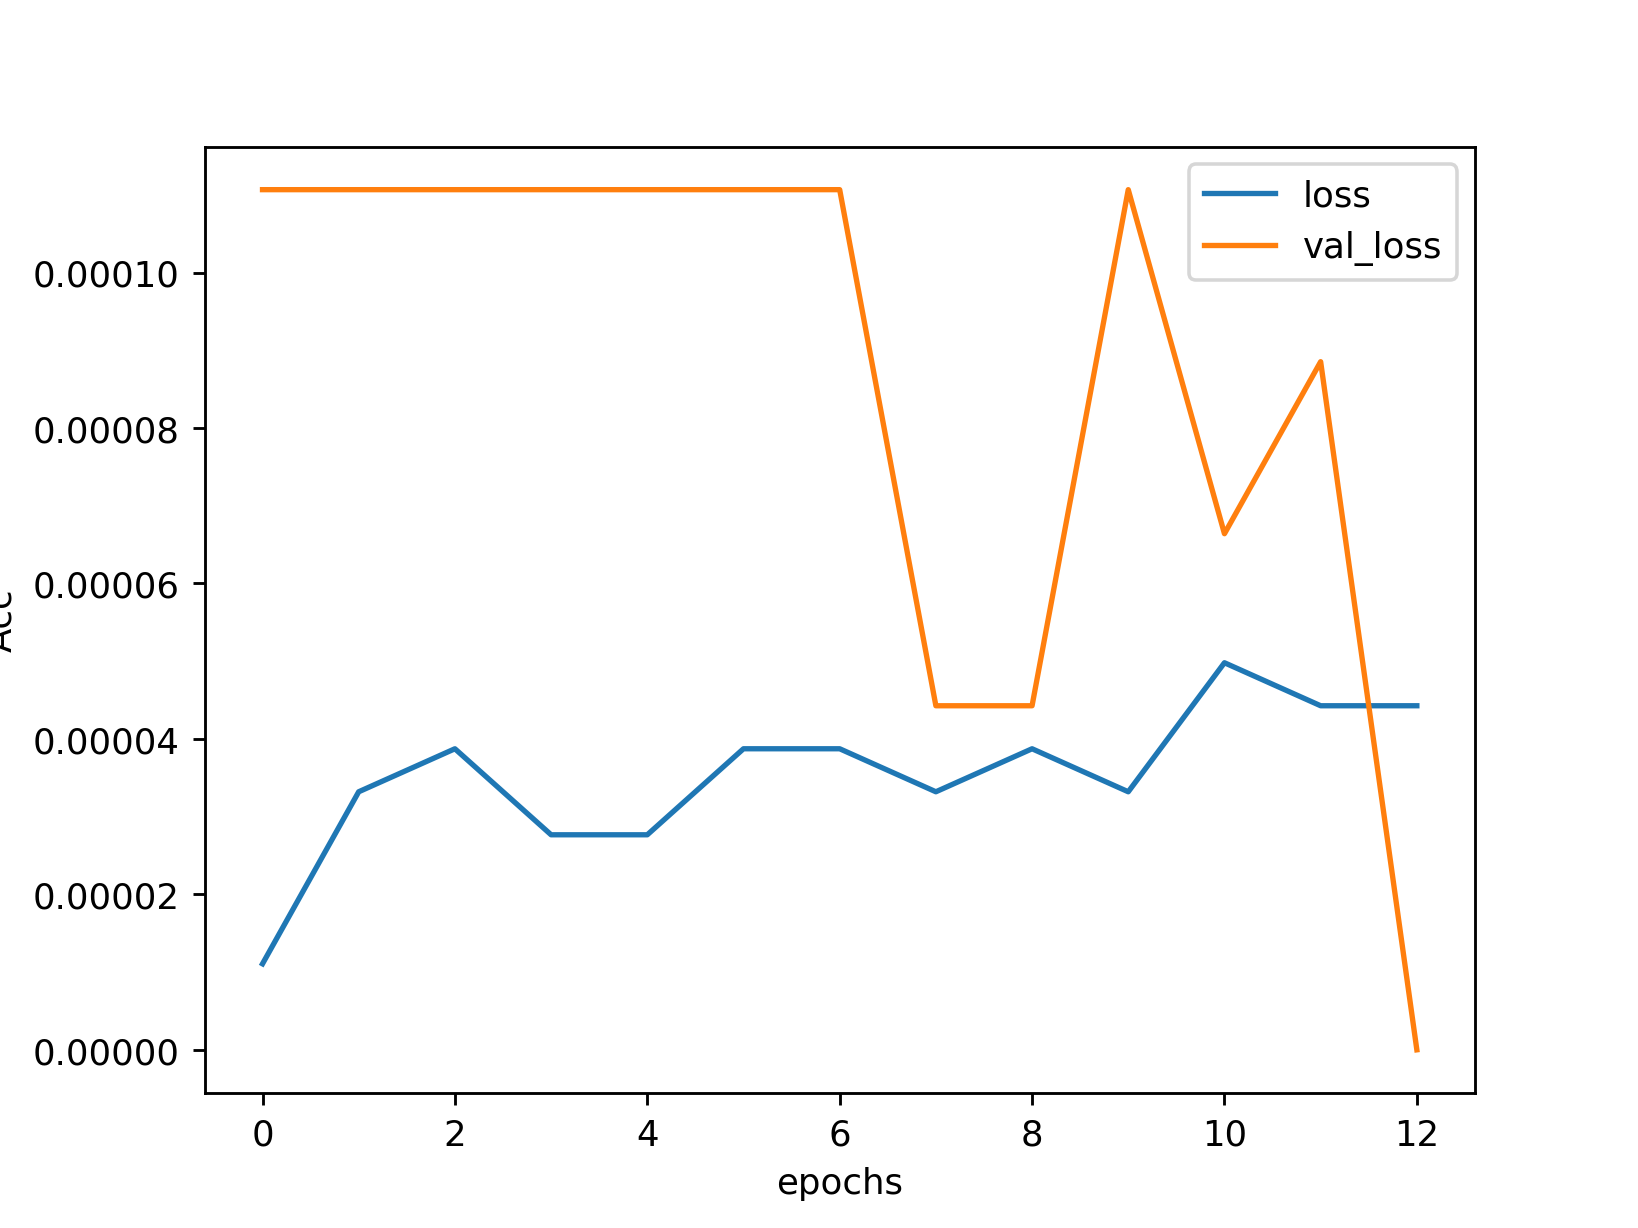
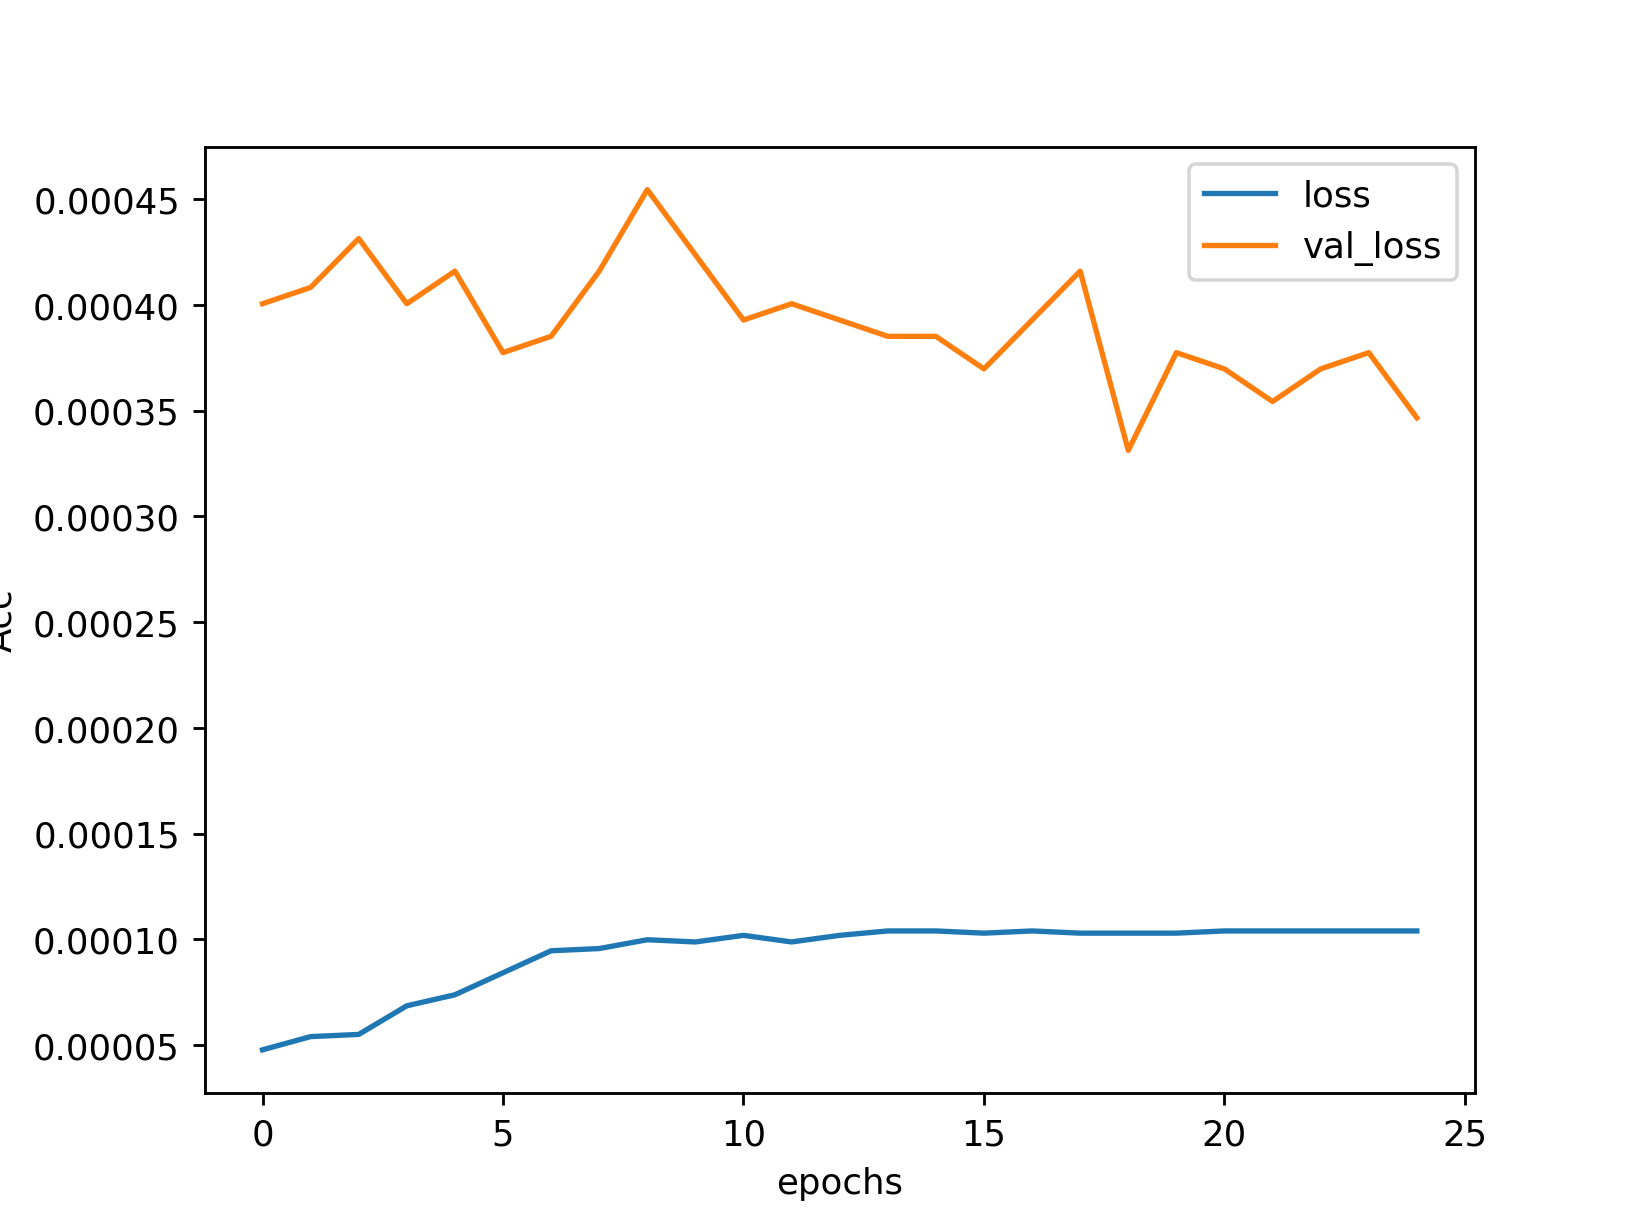
update

diff --git a/utils.py b/utils.py
@@ -10,7 +10,7 @@ Config['checkpoint_path'] = 'checkpoint'
 
 
 Config['use_cuda'] = True
-Config['debug'] = True
+Config['debug'] = False
 Config['num_epochs'] = 25
 Config['batch_size'] = 125
 
